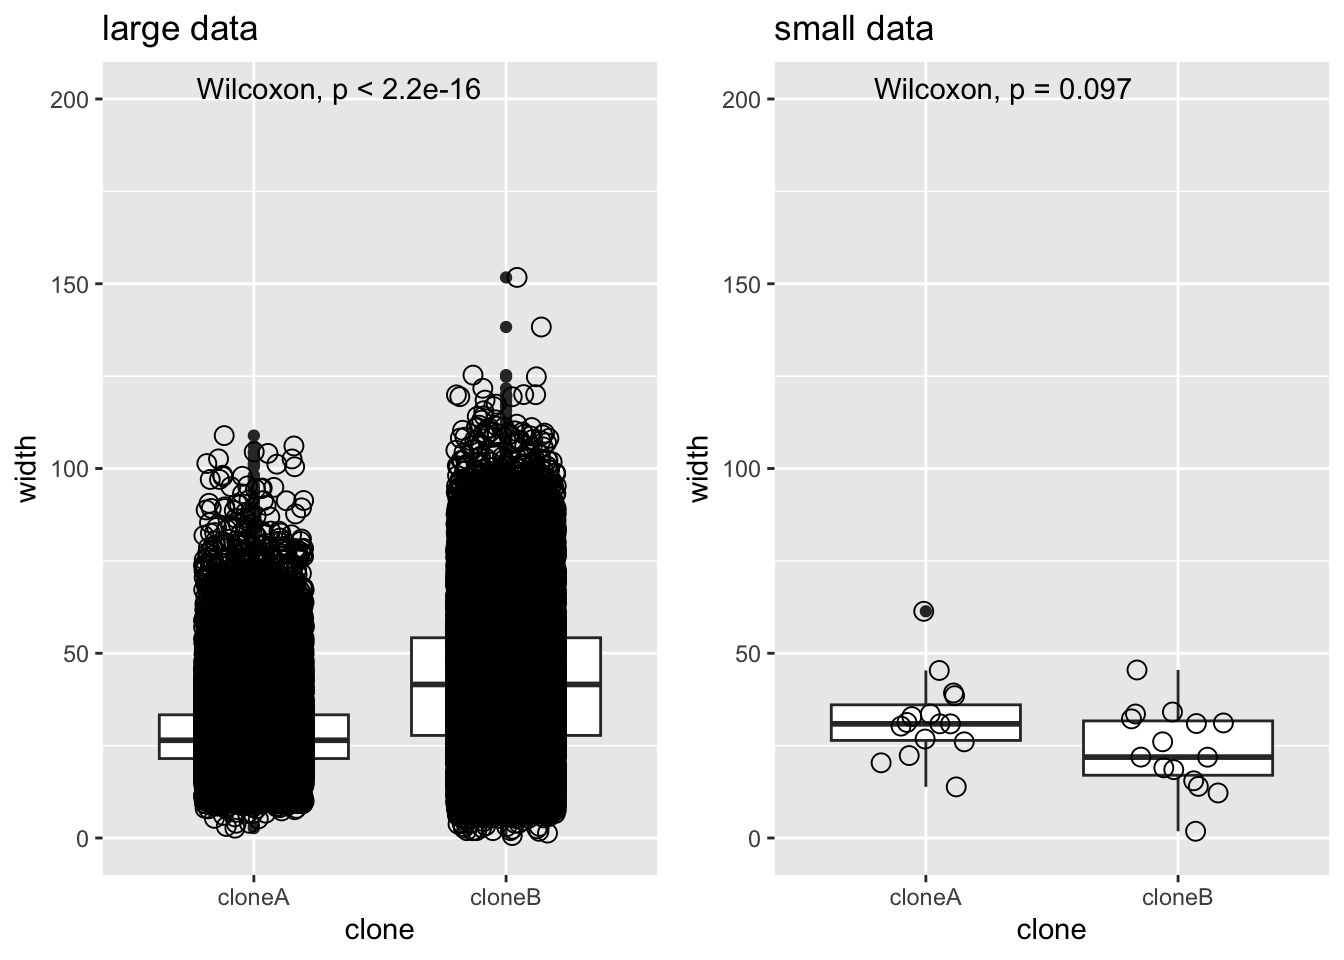
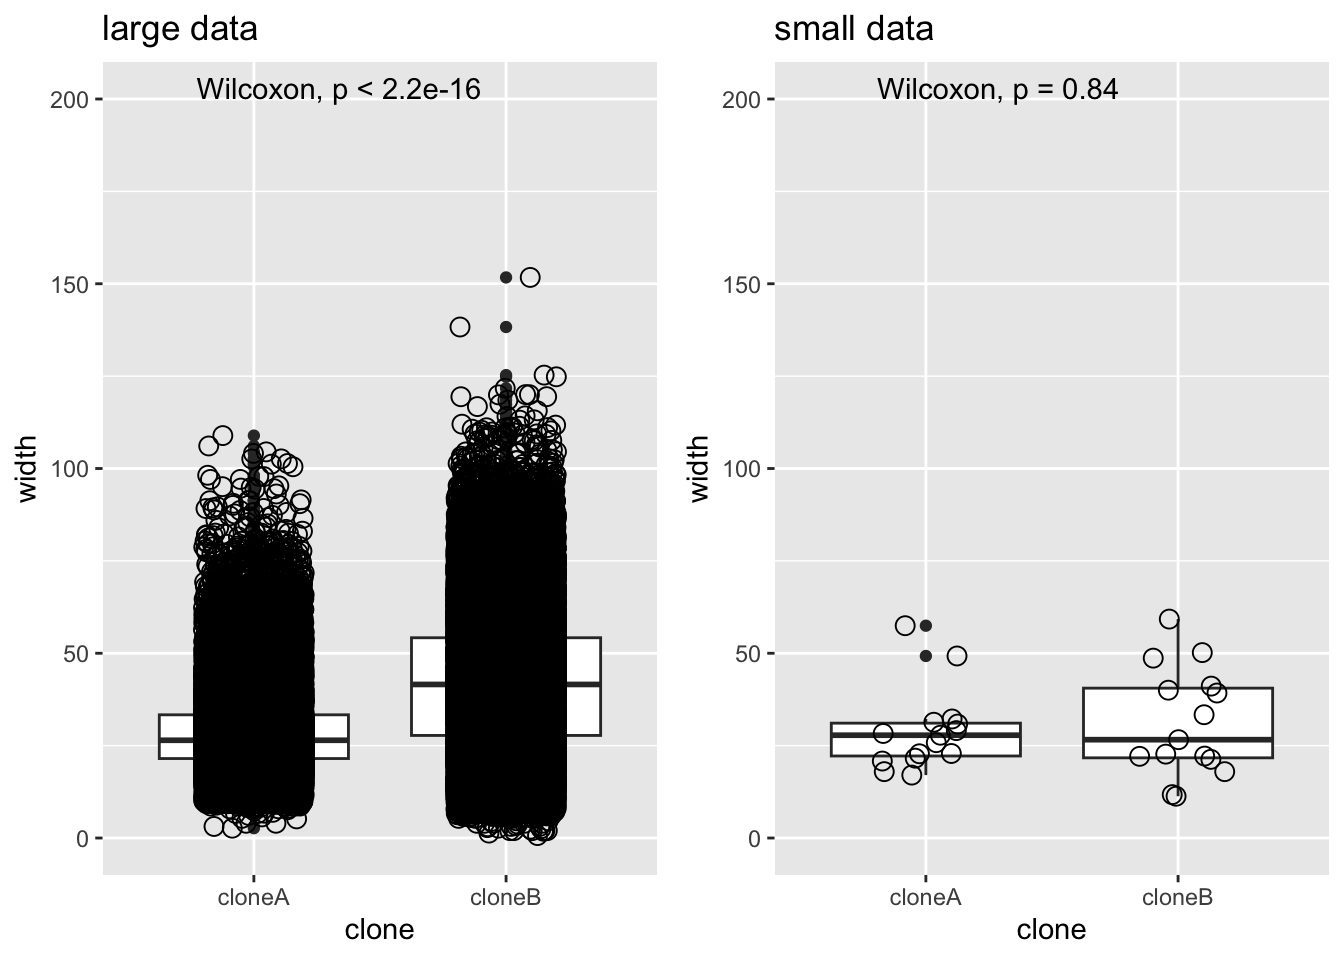
render with resources

diff --git a/docs/BIO00066I-template.html b/docs/BIO00066I-template.html
@@ -405,7 +405,7 @@ This is a callout note block.
 <div class="cell">
 <div class="sourceCode cell-code" id="cb1"><pre class="sourceCode r code-with-copy"><code class="sourceCode r"><span id="cb1-1"><a href="#cb1-1" aria-hidden="true" tabindex="-1"></a><span class="fu">mean</span>(<span class="fu">rnorm</span>(<span class="dv">100</span>))</span></code><button title="Copy to Clipboard" class="code-copy-button"><i class="bi"></i></button></pre></div>
 <div class="cell-output cell-output-stdout">
-<pre><code>[1] -0.124495</code></pre>
+<pre><code>[1] -0.1336263</code></pre>
 </div>
 </div>
 </div>

diff --git a/docs/workshop2.html b/docs/workshop2.html
@@ -747,7 +747,7 @@ if you have time
     Wilcoxon rank sum exact test
 
 data:  width by clone
-W = 153, p-value = 0.09753
+W = 107, p-value = 0.8381
 alternative hypothesis: true location shift is not equal to 0</code></pre>
 </div>
 <div class="sourceCode cell-code" id="cb21"><pre class="sourceCode r code-with-copy"><code class="sourceCode r"><span id="cb21-1"><a href="#cb21-1" aria-hidden="true" tabindex="-1"></a><span class="co">#test with 'cells' data frame - a *much* larger data set  </span></span>
